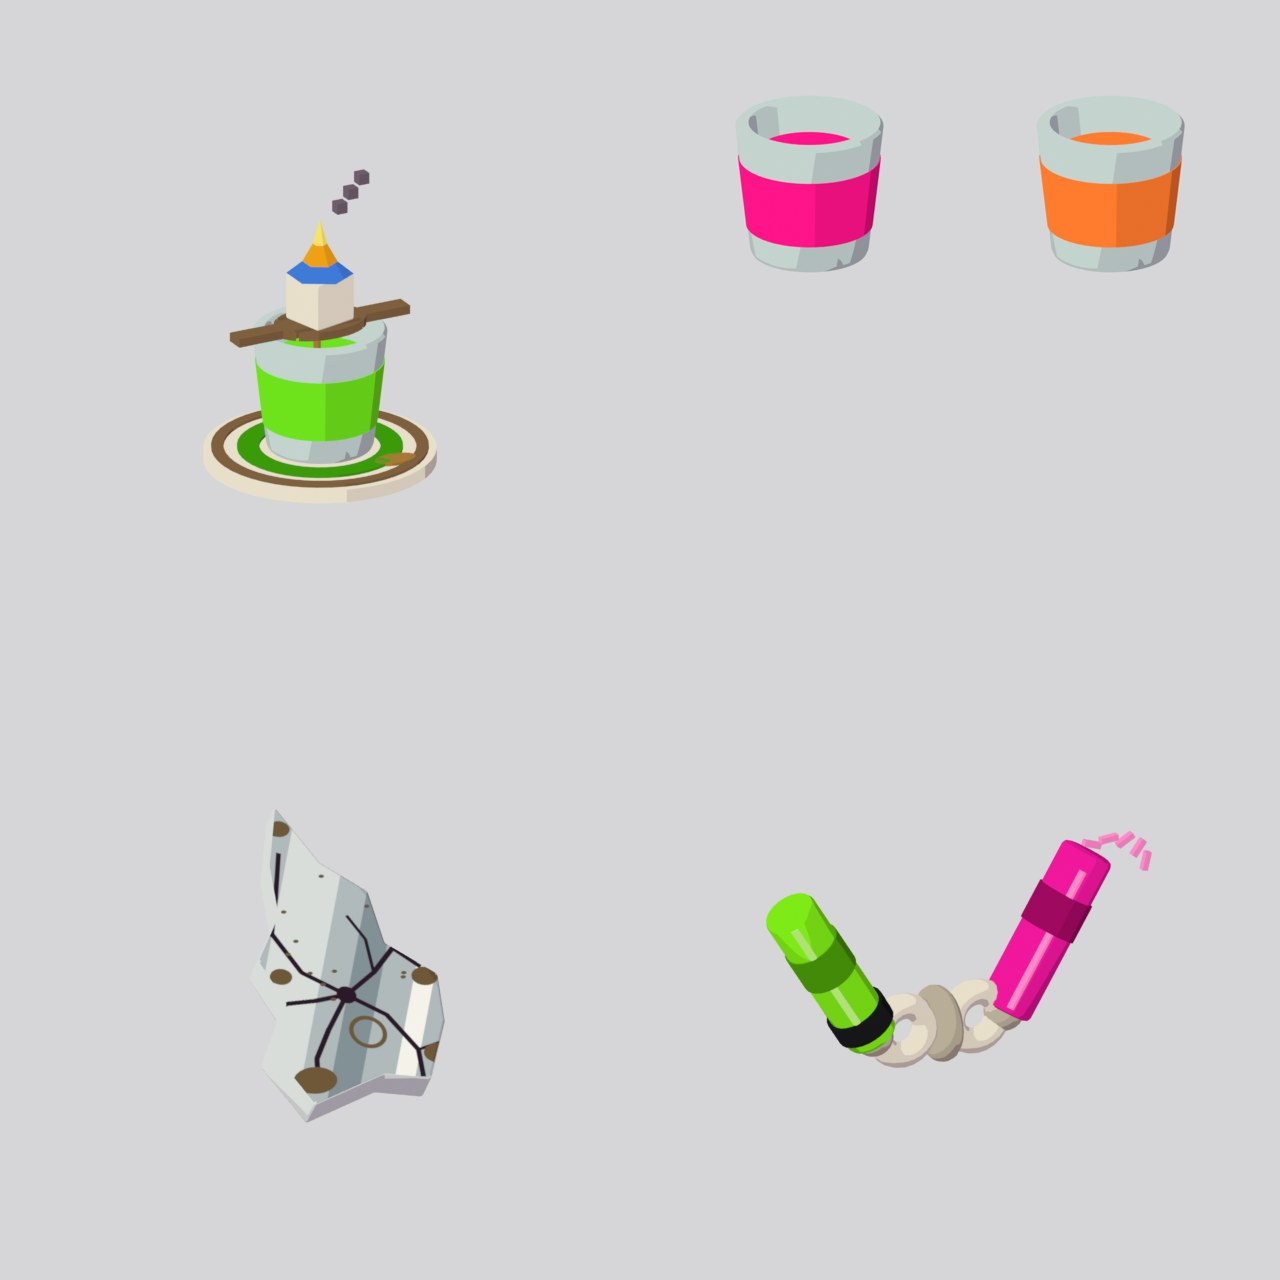
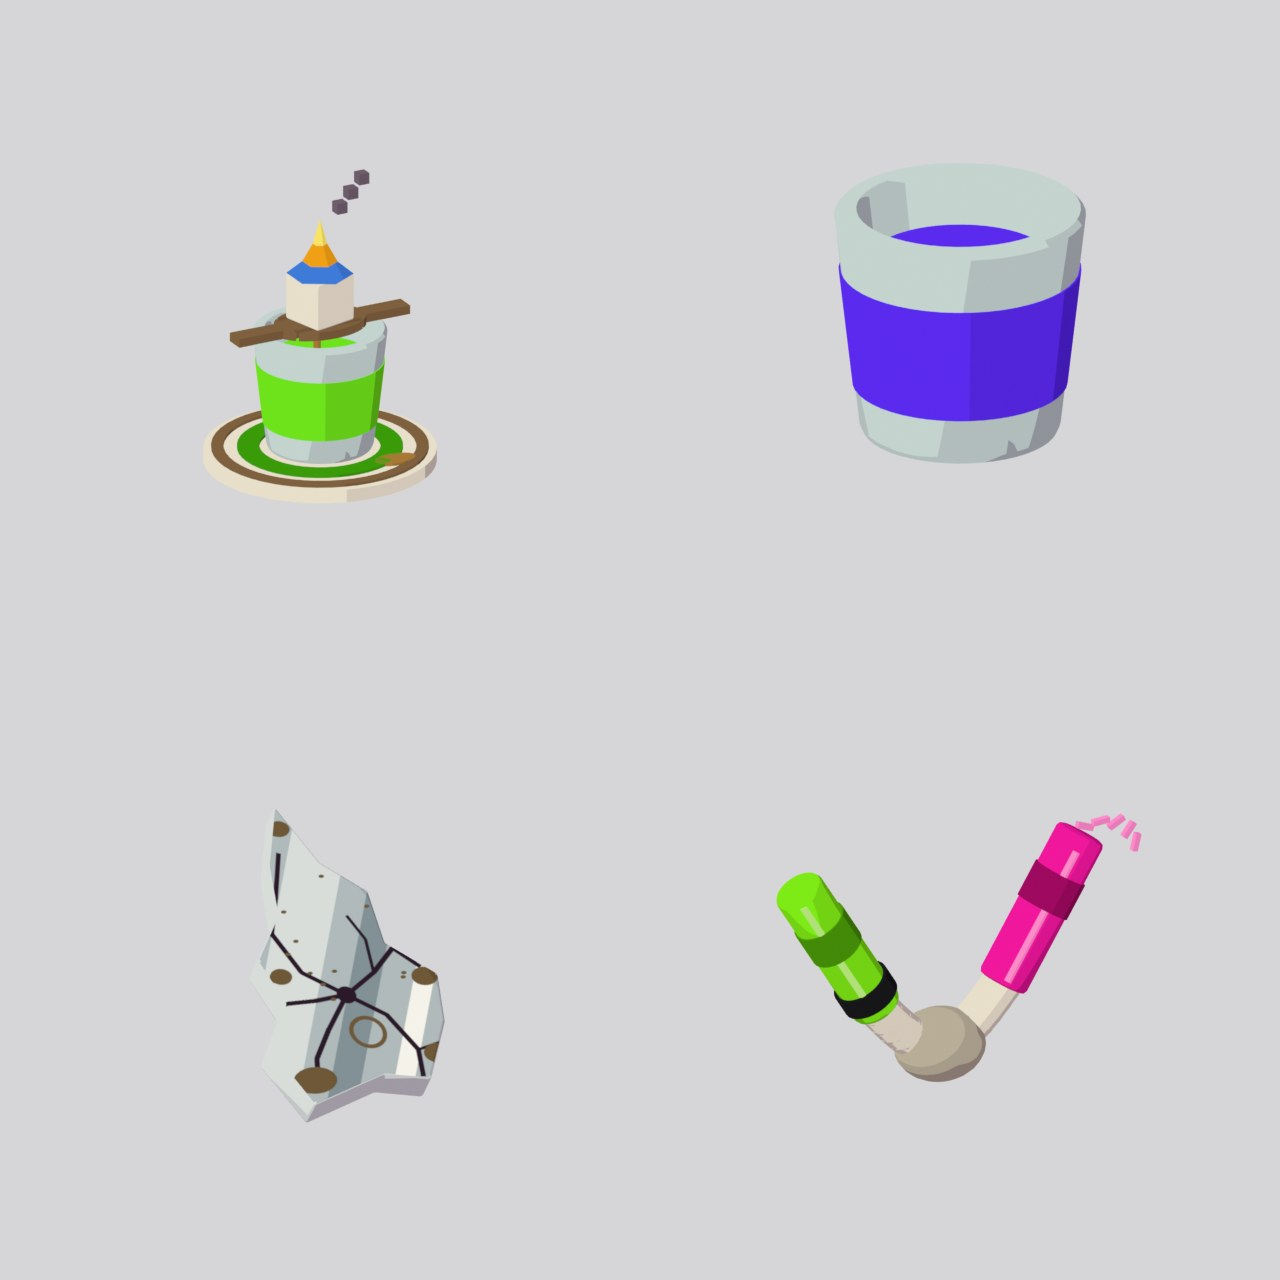
art(debaucheryville): batch 15 refs R1B (nunchucks single lace cord and knot, neon shooter violet-blue)
Claude-Session: https://claude.ai/code/session_01Rk2Ri3vAu7TBhRadSU9CbJ

Changed region(s): [[0.5625, 0.0625, 0.9375, 0.375], [0.5938, 0.625, 0.9062, 0.8438]]

diff --git a/Tools/item3d/chain_item.py b/Tools/item3d/chain_item.py
@@ -5,6 +5,7 @@ blender -b --python Tools/item3d/chain_item.py -- <out.glb>
  with a lighter core stripe, joined by a grubby off-white shoelace knotted at each end; one stick has a darker pooled section; black electrical
  tape on one knot; five spaced dashes arcing off one stick. The lace is built as fat chain-like links in the lace colour (the lead's chunky-chain
  brief, a thin lace would not survive 128 px).
+ R1B: coordinator corrected the brief, the lace is ONE fat solid cord with ONE big knot, no links.
 """
 import sys, os, math
 sys.path.insert(0, os.path.dirname(os.path.abspath(__file__)))
@@ -41,11 +42,17 @@ def stick(side, body, core, dark=None, tape=False):
 tip_g = stick(-1, "7EF018", "C4FF8E", dark="4A9E0A", tape=True)    # acid green, tape on its knot end, pooled darker section
 tip_m = stick(+1, "F018A8", "FF8ED8", dark="9E0A66")               # hot magenta
 LACE, LACE_D = "E8E4D8", "B8B2A2"
-for i, x in enumerate((-0.15, 0.0, 0.15)):                         # three fat interlocked links, alternate planes
-    rot = (90, 0, 0) if i % 2 == 0 else (90, 0, 90)
-    pm.reg(pm.prim("torus", loc=(x, 0, 0.0), rot=rot, R=0.095, r=0.048, v=24, mv=12), LACE if i != 1 else LACE_D)
-for s in (-1, 1):                                                     # crude knot lumps at each stick end
-    pm.reg(pm.prim("sphere", loc=(s * ex, 0, 0.0), r=0.075), LACE_D)
+# ONE fat solid lace cord (thick tube, sagging between the stick ends) with one big chunky knot in the middle
+N, CR = 14, 0.08
+pts = [(-ex + 2 * ex * i / N, 0.0, -0.2 * math.sin(math.pi * i / N)) for i in range(N + 1)]
+for (x0, y0, z0), (x1, y1, z1) in zip(pts, pts[1:]):
+    mx, mz = (x0 + x1) / 2, (z0 + z1) / 2
+    ln = math.hypot(x1 - x0, z1 - z0)
+    ang = math.degrees(math.atan2(x1 - x0, z1 - z0))
+    pm.reg(pm.prim("cyl", loc=(mx, 0, mz), rot=(0, ang, 0), r=CR, d=ln + 0.01, v=16), LACE)
+for (x, y, z) in pts:
+    pm.reg(pm.prim("sphere", loc=(x, 0, z), r=CR), LACE)
+pm.reg(pm.prim("sphere", loc=(0, 0, -0.2), r=0.16, scale=(1.15, 1.0, 0.9)), LACE_D)   # the one big knot
 # five spaced motion dashes arcing off the magenta stick's tip
 cxm, czm = tip_m[0], tip_m[2]
 for i in range(5):

diff --git a/dev/asset_team/icon_refs/glowstick_nunchucks_prompt.md b/dev/asset_team/icon_refs/glowstick_nunchucks_prompt.md
@@ -1,6 +1,6 @@
 # glowstick_nunchucks (Glowstick Nunchucks, UV Reactive): scripted Blender chain item (batch 15, round 1)
-Method: new `Tools/item3d/chain_item.py` (+ `palette_mesh.py`): two thick bevelled cylinders, three fat torus links between them, one fused mesh with a flat-colour atlas; no glow, no emission. 0 credits.
+Method: new `Tools/item3d/chain_item.py` (+ `palette_mesh.py`): two thick bevelled cylinders joined by ONE fat solid lace cord (round 1B, coordinator ruling: follow the doc's shoelace, no links) with one big chunky knot, one fused mesh with a flat-colour atlas; no glow, no emission. 0 credits.
 Canon: `Assets/Graphics/items/glowstick-nunchucks.md` L31 (DRAW THIS OBJECT) and L60 palette: acid green #7EF018 and hot magenta #F018A8 sticks, lighter core stripes, darker pooled sections, black electrical tape #1A1A1E on one knot, grubby lace #E8E4D8/#B8B2A2, five spaced dashes off one stick.
-Shows: loose V of two sticks, fat lace-coloured links and knot lumps in the middle, tape ring, pooled sections, five dashes.
-Deviation: the doc says a knotted shoelace; the brief asked for chunky torus links, so the lace is drawn as fat links in lace colour. Not built: hairline crack, frayed ends, missing aglets, drilled holes (too fine). Choices not in the docs: stick lengths, V angle, dash colour (#FF8ED8).
+Shows: loose V of two sticks, one thick lace-coloured cord sagging between them with one big knot, tape ring, pooled sections, five dashes.
+Not built: hairline crack, frayed ends, missing aglets, drilled holes (too fine). Choices not in the docs: stick lengths, V angle, dash colour (#FF8ED8).
 No lettering.

diff --git a/dev/asset_team/icon_refs/item_tan_line_neon_shooter_prompt.md b/dev/asset_team/icon_refs/item_tan_line_neon_shooter_prompt.md
@@ -1,5 +1,5 @@
-# item_tan_line_neon_shooter (The Tan Line Neon Shooter): scripted Blender lathe (batch 15, round 1), COLOUR BLOCKED
+# item_tan_line_neon_shooter (The Tan Line Neon Shooter): scripted Blender lathe (batch 15, round 1)
 Method: `Tools/item3d/lathe_item.py plain <out.glb> <liquid_hex>`: same chunky opaque satin shot glass as absinthe_shot, glass alone, liquid colour a parameter.
 Canon: `design/worlds/debaucheryville/items/bohemian_riviera_items.json` L125-141 ("A shot glowing the exact color of the tanning-bed neon wallpapered across The Tan Line's walls"); venue `design/worlds/debaucheryville/bohemian_riviera.md` L91 and `PNG_Assets/Bohemian_Riviera_Complete_PNG_Asset_Requirements.md` L102 ("tanning-bed neon trim").
-DOC GAP: no hex or colour name for "tanning-bed neon" anywhere in the files. The ref shows the shape with two colours taken from the Bohemian Riviera palette (bohemian_riviera.md L119-125), EMTV Magenta #FF1493 and Space Heater Orange #FF7F32, ONLY as swatches to choose between. Question for the author via main: which colour? (The asset is otherwise fully specified: a shot glass, glowing = flat saturated colour, no emission.)
+COLOUR (round 1B, coordinator ruling): the docs name no hex for "tanning-bed neon", so the agent's choice stands: electric violet-blue #5B2BFF (the UV tanning-bed glow) for liquid top and body, flat, no emission. The hot-magenta accent (EMTV Magenta #FF1493, bohemian_riviera.md L121) is available but not used on the glass.
 No lettering. No venue facade, no props.
